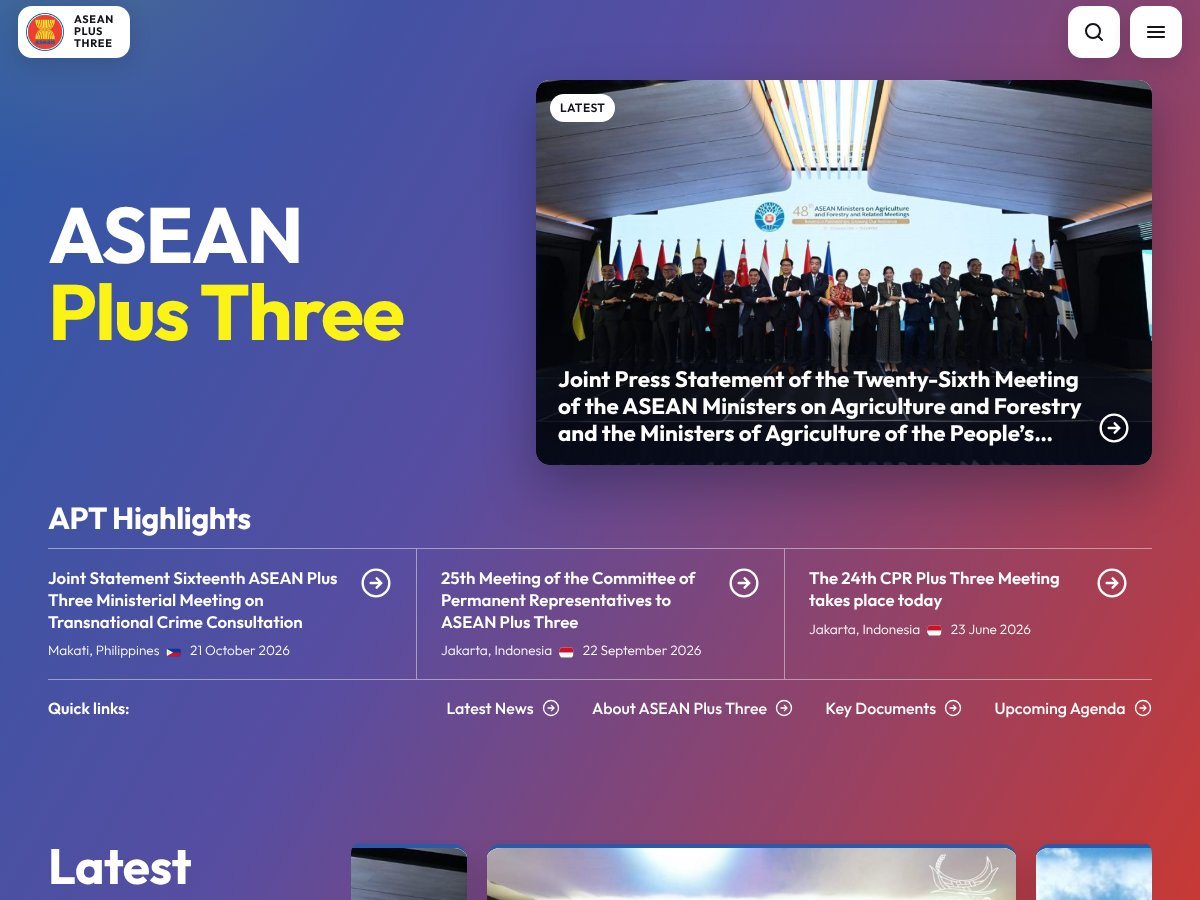
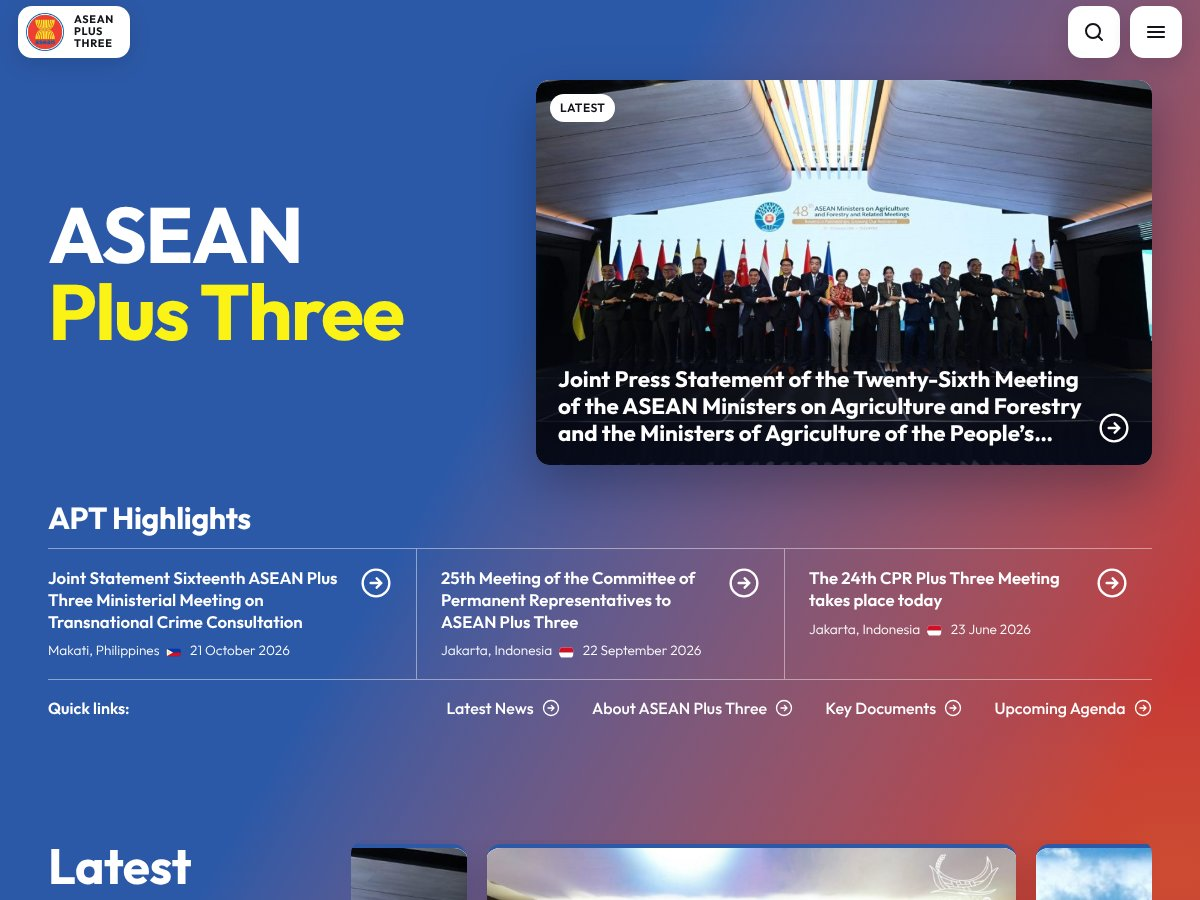
Background: official blue to red with a faint yellow corner (B4)
Short blue-to-red blend mixed in Oklab, so the middle is muted instead
of purple, with a 10% official-yellow glow warming the bottom-right
corner. The violet Pantone 2725 midpoint is gone. Browsers without
'in oklab' get the same stops in sRGB.

Readability, measured on the rendered background (worst case 4.52:1 for
white text):
- secondary text on the gradient is full white (92% white fell to
  4.07:1 in the warm corner);
- the stat cards' white tint (which lowered contrast to 4.02:1) is now
  a light dark tint, and the italic notes are no longer faded.

Theme screenshot regenerated.

Claude-Session: https://claude.ai/code/session_01XoHtnNbUGgqr2K7nBi3oKd

diff --git a/assets/css/apt-design.css b/assets/css/apt-design.css
@@ -10,7 +10,6 @@
 	   the Use of the ASEAN Emblem (Annex); web (RGB) values from the ASEAN
 	   Secretariat's ASEAN Day 57 Branding Guideline (2024). */
 	--apt-blue: #2c59a7;        /* Pantone 286, RGB 44/89/167       */
-	--apt-dark-blue: #574da1;   /* Pantone 2725, RGB 87/77/161 (ASEAN 57 additional colour) */
 	--apt-blue-light: #2c63c4;
 	--apt-red: #c73935;         /* Pantone Red 032, RGB 199/57/53   */
 	--apt-crimson: #c9234a;     /* previous APT navbar crimson    */
@@ -33,7 +32,7 @@
 	--paper: #ffffff;
 	--paper-2: #f5f6f8;
 	--on-grad: #ffffff;
-	--on-grad-2: rgba(255, 255, 255, 0.92); /* >= 4.5:1 on the official red */
+	--on-grad-2: #ffffff; /* full white: 92% white dropped to 4.07:1 in the warm red corner */
 	--on-grad-rule: rgba(255, 255, 255, 0.45);
 
 	/* Shape + space */
@@ -95,9 +94,16 @@ body::before {
 	z-index: -1;
 	pointer-events: none;
 	background-image:
-		/* Yellow glow kept over the blue side: over the red it would drop text contrast below 4.5:1 */
-		radial-gradient(45vmax 35vmax at 22% 18%, rgba(251, 243, 21, 0.12), transparent 60%),
-		linear-gradient(120deg, var(--apt-blue) 20%, var(--apt-dark-blue) 45%, var(--apt-red) 80%);
+		radial-gradient(30vmax 24vmax at 80% 76%, rgba(251, 243, 21, 0.1), transparent 70%),
+		linear-gradient(120deg, var(--apt-blue) 45%, var(--apt-red) 75%);
+	/* Official blue to official red with a short blend, mixed in Oklab so the
+	   middle stays muted rather than purple; a faint yellow warms the bottom-
+	   right corner. Yellow is kept at 10%: any stronger and white text on the
+	   red drops below 4.5:1 (measured worst case 4.52:1). Browsers without
+	   "in oklab" keep the plain gradient above. */
+	background-image:
+		radial-gradient(30vmax 24vmax at 80% 76%, rgba(251, 243, 21, 0.1), transparent 70%),
+		linear-gradient(120deg in oklab, var(--apt-blue) 45%, var(--apt-red) 75%);
 }
 @media (prefers-reduced-motion: no-preference) {
 	body::before { animation: apt-grad 28s ease-in-out infinite alternate; }
@@ -819,14 +825,14 @@ html:has(.apt-menu[open]) { overflow: hidden; }
 	padding: 18px 20px; margin-bottom: 14px;
 	border: 1px solid var(--on-grad-rule);
 	border-radius: var(--radius-tile);
-	background: rgba(255, 255, 255, 0.08);
+	background: rgba(17, 19, 24, 0.12); /* a dark tint raises text contrast; a white one lowered it */
 }
 .stat-card.stat-card-wide { grid-column: 1 / -1; }
 .stat-icon { color: var(--apt-yellow); flex: none; }
 .stat-icon svg { width: 28px; height: 28px; }
 .stat-value { font-size: 1.35rem; font-weight: 700; line-height: 1.15; }
 .stat-desc { font-size: 0.85rem; line-height: 1.4; color: var(--on-grad-2); margin-top: 4px; }
-.stat-desc em { opacity: 0.85; }
+.stat-desc em { font-style: italic; }
 .apt-stats-source {
 	grid-column: 1 / -1;
 	margin: 4px 0 0;
